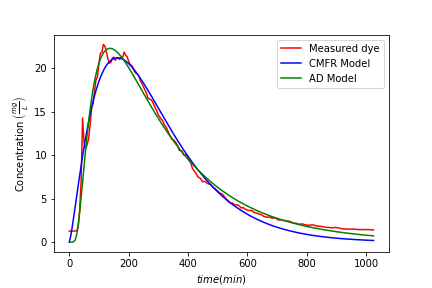
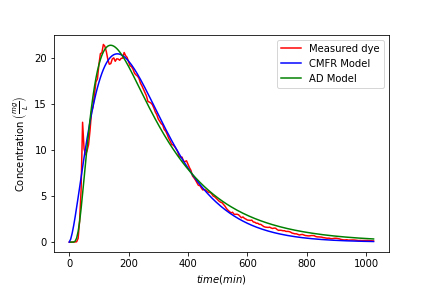
cleaned up reactor data analysis

diff --git a/Examples/reactor.md b/Examples/reactor.md
@@ -1,93 +1,114 @@
+Make sure you are using aguaclara version 0.0.22 or greater!
+pip install aguaclara --upgrade
 
+# Reactor analysis
 
-## Steps
+We would like to understand the mixing characteristics of the various reactors that we are designing and building. The parameters that describe the reactors are the number of CMFRs in series or the Peclet number and the ratio of the hydraulic residence time to the tracer residence time. We will use scipy.optimize curve_fit to minimize the error between our two reactor models (CMFR in series and advection/dispersion) and the tracer data that we collect.
 
 ```python
 from aguaclara.core.units import unit_registry as u
 import aguaclara.research.environmental_processes_analysis as epa
+import aguaclara.core.utility as ut
 import numpy as np
-import pandas as pd
 import matplotlib.pyplot as plt
 
 #The following file is from a CMFR
-data_file_path = 'https://raw.githubusercontent.com/monroews/CEE4530/master/Examples/data/CMFR_example.xls'
+CMFR_path = 'https://raw.githubusercontent.com/monroews/CEE4530/master/Examples/data/CMFR_example.xls'
 
 # find the row after the last note in the file. This assumes that the last note marks the beginning of the test.
-firstrow = epa.notes(data_file_path).last_valid_index() + 1
+epa.notes(CMFR_path)
+CMFR_firstrow = epa.notes(CMFR_path).last_valid_index() + 1
+CMFR_firstrow
 
-firstrow = firstrow + 10
-#I eliminate the beginning of the data file because this is a CMFR and the first data was taken before the dye reached the sensor.
+#I eliminate the beginning of the data file because this is a CMFR and the first data was taken before the dye reached the sensor. Note that eliminating some data from the beginning of the data file will not change the analysis except in the estimate of the initial tracer mass.
+CMFR_firstrow = CMFR_firstrow + 10
 
-time_data = (epa.column_of_time(data_file_path,firstrow,-1)).to(u.s)
 
-concentration_data = epa.column_of_data(data_file_path,firstrow,1,-1,'mg/L')
+CMFR_time_data = (epa.column_of_time(CMFR_path,CMFR_firstrow,-1)).to(u.s)
 
-V_CMFR = 1.5*u.L
-Q_CMFR = 380 * u.mL/u.min
+CMFR_concentration_data = epa.column_of_data(CMFR_path,CMFR_firstrow,1,-1,'mg/L')
+
+# I don't actually know the values that follow. I'm guessing. You should use real measured values!
+CMFR_V = 1.5*u.L
+CMFR_Q = 380 * u.mL/u.min
 
 #here we set estimates that we will use as starting values for the curve fitting
-theta_guess = (V_CMFR/Q_CMFR).to(u.s)
-
-
-
-C_bar_guess = np.max(concentration_data)
+CMFR_theta_hydraulic = (CMFR_V/CMFR_Q).to(u.s)
+CMFR_C_bar_guess = np.max(CMFR_concentration_data)
 
 #The Solver_CMFR_N will return the initial tracer concentration, residence time, and number of reactors in series.
 #This experiment was for a single reactor and so we expect N to be 1!
-CMFR = epa.Solver_CMFR_N(time_data, concentration_data, theta_guess, C_bar_guess)
+CMFR_CMFR = epa.Solver_CMFR_N(CMFR_time_data, CMFR_concentration_data, CMFR_theta_hydraulic, CMFR_C_bar_guess)
 #use dot notation to get the 3 elements of the tuple that are in CMFR.
-CMFR.C_bar
-CMFR.N
-CMFR.theta
+
+print('The model estimated mass of tracer injected was',ut.round_sf(CMFR_CMFR.C_bar*CMFR_V ,2) )
+print('The model estimate of the number of reactors in series was', CMFR_CMFR.N)
+print('The tracer residence time was',ut.round_sf(CMFR_CMFR.theta ,2))
+print('The ratio of tracer to hydraulic residence time was',(CMFR_CMFR.theta/CMFR_theta_hydraulic).magnitude)
+
 #create a model curve given the curve fit parameters.
 #
-CMFR_model = CMFR.C_bar * epa.E_CMFR_N(time_data/CMFR.theta,CMFR.N)
-plt.plot(time_data.to(u.min), concentration_data.to(u.mg/u.L),'r')
-plt.plot(time_data.to(u.min), CMFR_model,'b')
+CMFR_CMFR_model = CMFR_CMFR.C_bar * epa.E_CMFR_N(CMFR_time_data/CMFR_CMFR.theta,CMFR.N)
+plt.plot(CMFR_time_data.to(u.min), CMFR_concentration_data.to(u.mg/u.L),'r')
+plt.plot(CMFR_time_data.to(u.min), CMFR_CMFR_model,'b')
 
 plt.xlabel(r'$time (min)$')
 plt.ylabel(r'Concentration $\left ( \frac{mg}{L} \right )$')
 plt.legend(['Measured dye','CMFR Model'])
-plt.savefig('Examples/images/reactorplot.png')
+plt.savefig('Examples/images/CMFR.png')
 plt.show()
 
 #Load a data file for a reactor with baffles.
 
-data_file_path = 'https://raw.githubusercontent.com/monroews/CEE4530/master/Examples/data/Dispersion_example.xls'
-firstrow = epa.notes(data_file_path).last_valid_index() + 1
-time_data = (epa.column_of_time(data_file_path,firstrow,-1)).to(u.s)
-concentration_data = epa.column_of_data(data_file_path,firstrow,1,-1,'mg/L')
-V_CMFR = 2.25*u.L
-Q_CMFR = 380 * u.mL/u.min
-theta_guess = (V_CMFR/Q_CMFR).to(u.s)
-C_bar_guess = np.max(concentration_data)/2
+one_baffle_path = 'https://raw.githubusercontent.com/monroews/CEE4530/master/Examples/data/Dispersion_example.xls'
+one_baffle_firstrow = epa.notes(one_baffle_path).last_valid_index() + 1
+one_baffle_time_data = (epa.column_of_time(one_baffle_path,one_baffle_firstrow,-1)).to(u.s)
+one_baffle_concentration_data = epa.column_of_data(one_baffle_path,one_baffle_firstrow,1,-1,'mg/L')
+
+# I noticed that the initial concentration measured by the photometer wasn't zero. This suggests that there may have been a small air bubble in the photometer or perhaps there was some other anomoly that was causing the photometer to read a concentration that was higher than was actually present in the reactor. To correct for this I subtracted the initial concentration reading from all of the data. This was based on the assumption that the concentration measurement error persisted for the entire experiment.
+one_baffle_concentration_data = one_baffle_concentration_data - one_baffle_concentration_data[0]
+one_baffle_V = 2.25*u.L
+one_baffle_Q = 380 * u.mL/u.min
+one_baffle_theta_hydraulic = (one_baffle_V/one_baffle_Q).to(u.s)
+one_baffle_C_bar_guess = np.max(one_baffle_concentration_data)/2
 #use solver to get the CMFR parameters
-CMFR = epa.Solver_CMFR_N(time_data, concentration_data, theta_guess, C_bar_guess)
-CMFR.C_bar
-CMFR.N
-CMFR.theta.to(u.s)
-#Create the CMFR model curve based on the solver parameters
-#We do this with dimensions so that we can plot both models and the data on the same graph. If we did this in dimensionless it wouldn't be possible to plot everything on the same plot because the values used to create dimensionless time and dimensionless concentration are different for the two models.
-CMFR_model = (CMFR.C_bar*epa.E_CMFR_N(time_data/CMFR.theta, CMFR.N)).to(u.mg/u.L)
+one_baffle_CMFR = epa.Solver_CMFR_N(one_baffle_time_data, one_baffle_concentration_data, one_baffle_theta_hydraulic, one_baffle_C_bar_guess)
+one_baffle_CMFR.C_bar
+one_baffle_CMFR.N
+one_baffle_CMFR.theta.to(u.s)
+#Create the CMFR model curve based on the scipy.optimize curve_fit parameters
+#We do this with dimensions so that we can plot both models and the data on the same graph. If we did this in dimensionless space it wouldn't be possible to plot everything on the same plot because the values used to create dimensionless time and dimensionless concentration are different for the two models.
+one_baffle_CMFR_model = (one_baffle_CMFR.C_bar*epa.E_CMFR_N(one_baffle_time_data/one_baffle_CMFR.theta, one_baffle_CMFR.N)).to(u.mg/u.L)
 
 #use solver to get the advection dispersion parameters
-AD = epa.Solver_AD_Pe(time_data, concentration_data, theta_guess, C_bar_guess)
-AD.C_bar
-AD.Pe
-AD.theta
+one_baffle_AD = epa.Solver_AD_Pe(one_baffle_time_data, one_baffle_concentration_data, one_baffle_theta_hydraulic, one_baffle_C_bar_guess)
+one_baffle_AD.C_bar
+one_baffle_AD.Pe
+one_baffle_AD.theta
+
+print('The model estimated mass of tracer injected was',ut.round_sf(one_baffle_AD.C_bar*one_baffle_V ,2) )
+print('The model estimate of the Peclet number was', one_baffle_AD.Pe)
+print('The tracer residence time was',ut.round_sf(one_baffle_AD.theta ,2))
+print('The ratio of tracer to hydraulic residence time was',(one_baffle_AD.theta/one_baffle_theta_hydraulic).magnitude)
 
 #Create the advection dispersion model curve based on the solver parameters
-AD_model = (AD.C_bar*epa.E_Advective_Dispersion((time_data/AD.theta).to_base_units(), AD.Pe)).to(u.mg/u.L)
+one_baffle_AD_model = (one_baffle_AD.C_bar*epa.E_Advective_Dispersion((one_baffle_time_data/one_baffle_AD.theta).to_base_units(), one_baffle_AD.Pe)).to(u.mg/u.L)
 
 #Plot the data and the two model curves.
-plt.plot(time_data.to(u.s), concentration_data.to(u.mg/u.L),'r')
-plt.plot(time_data.to(u.s), CMFR_model,'b')
-plt.plot(time_data.to(u.s), AD_model,'g')
+plt.plot(one_baffle_time_data.to(u.s), one_baffle_concentration_data.to(u.mg/u.L),'r')
+plt.plot(one_baffle_time_data.to(u.s), one_baffle_CMFR_model,'b')
+plt.plot(one_baffle_time_data.to(u.s), one_baffle_AD_model,'g')
 plt.xlabel(r'$time (min)$')
 plt.ylabel(r'Concentration $\left ( \frac{mg}{L} \right )$')
 plt.legend(['Measured dye','CMFR Model', 'AD Model'])
-plt.savefig('Examples/images/reactorplot.png')
+plt.savefig('Examples/images/Dispersion.png')
 plt.show()
 
 ```
-![graph](images/reactorplot.png)
+![graph](https://github.com/monroews/CEE4530/raw/master/Examples/images/CMFR.png)
+
+Figure 1. Plot of tracer response curve for a completely mixed flow reactor. The discrepancy is likely due to poor calibration of the photometer for low concentrations.
+
+![graph](https://github.com/monroews/CEE4530/raw/master/Examples/images/Dispersion.png)
+
+Figure 2. Plot of the tracer response curves for a reactor with one baffle. Although both CMFR in series and advection dispersion models fit the data remarkably well, the best fit is obtained by the advection dispersion model. It accurately predicts the lag between dye addition and arrival at the effluent of the reactor. The large difference between the residence time of the tracer and the hydraulic residence time suggests either a measurement error (reactor volume or flow rate) or significant short circuiting.
